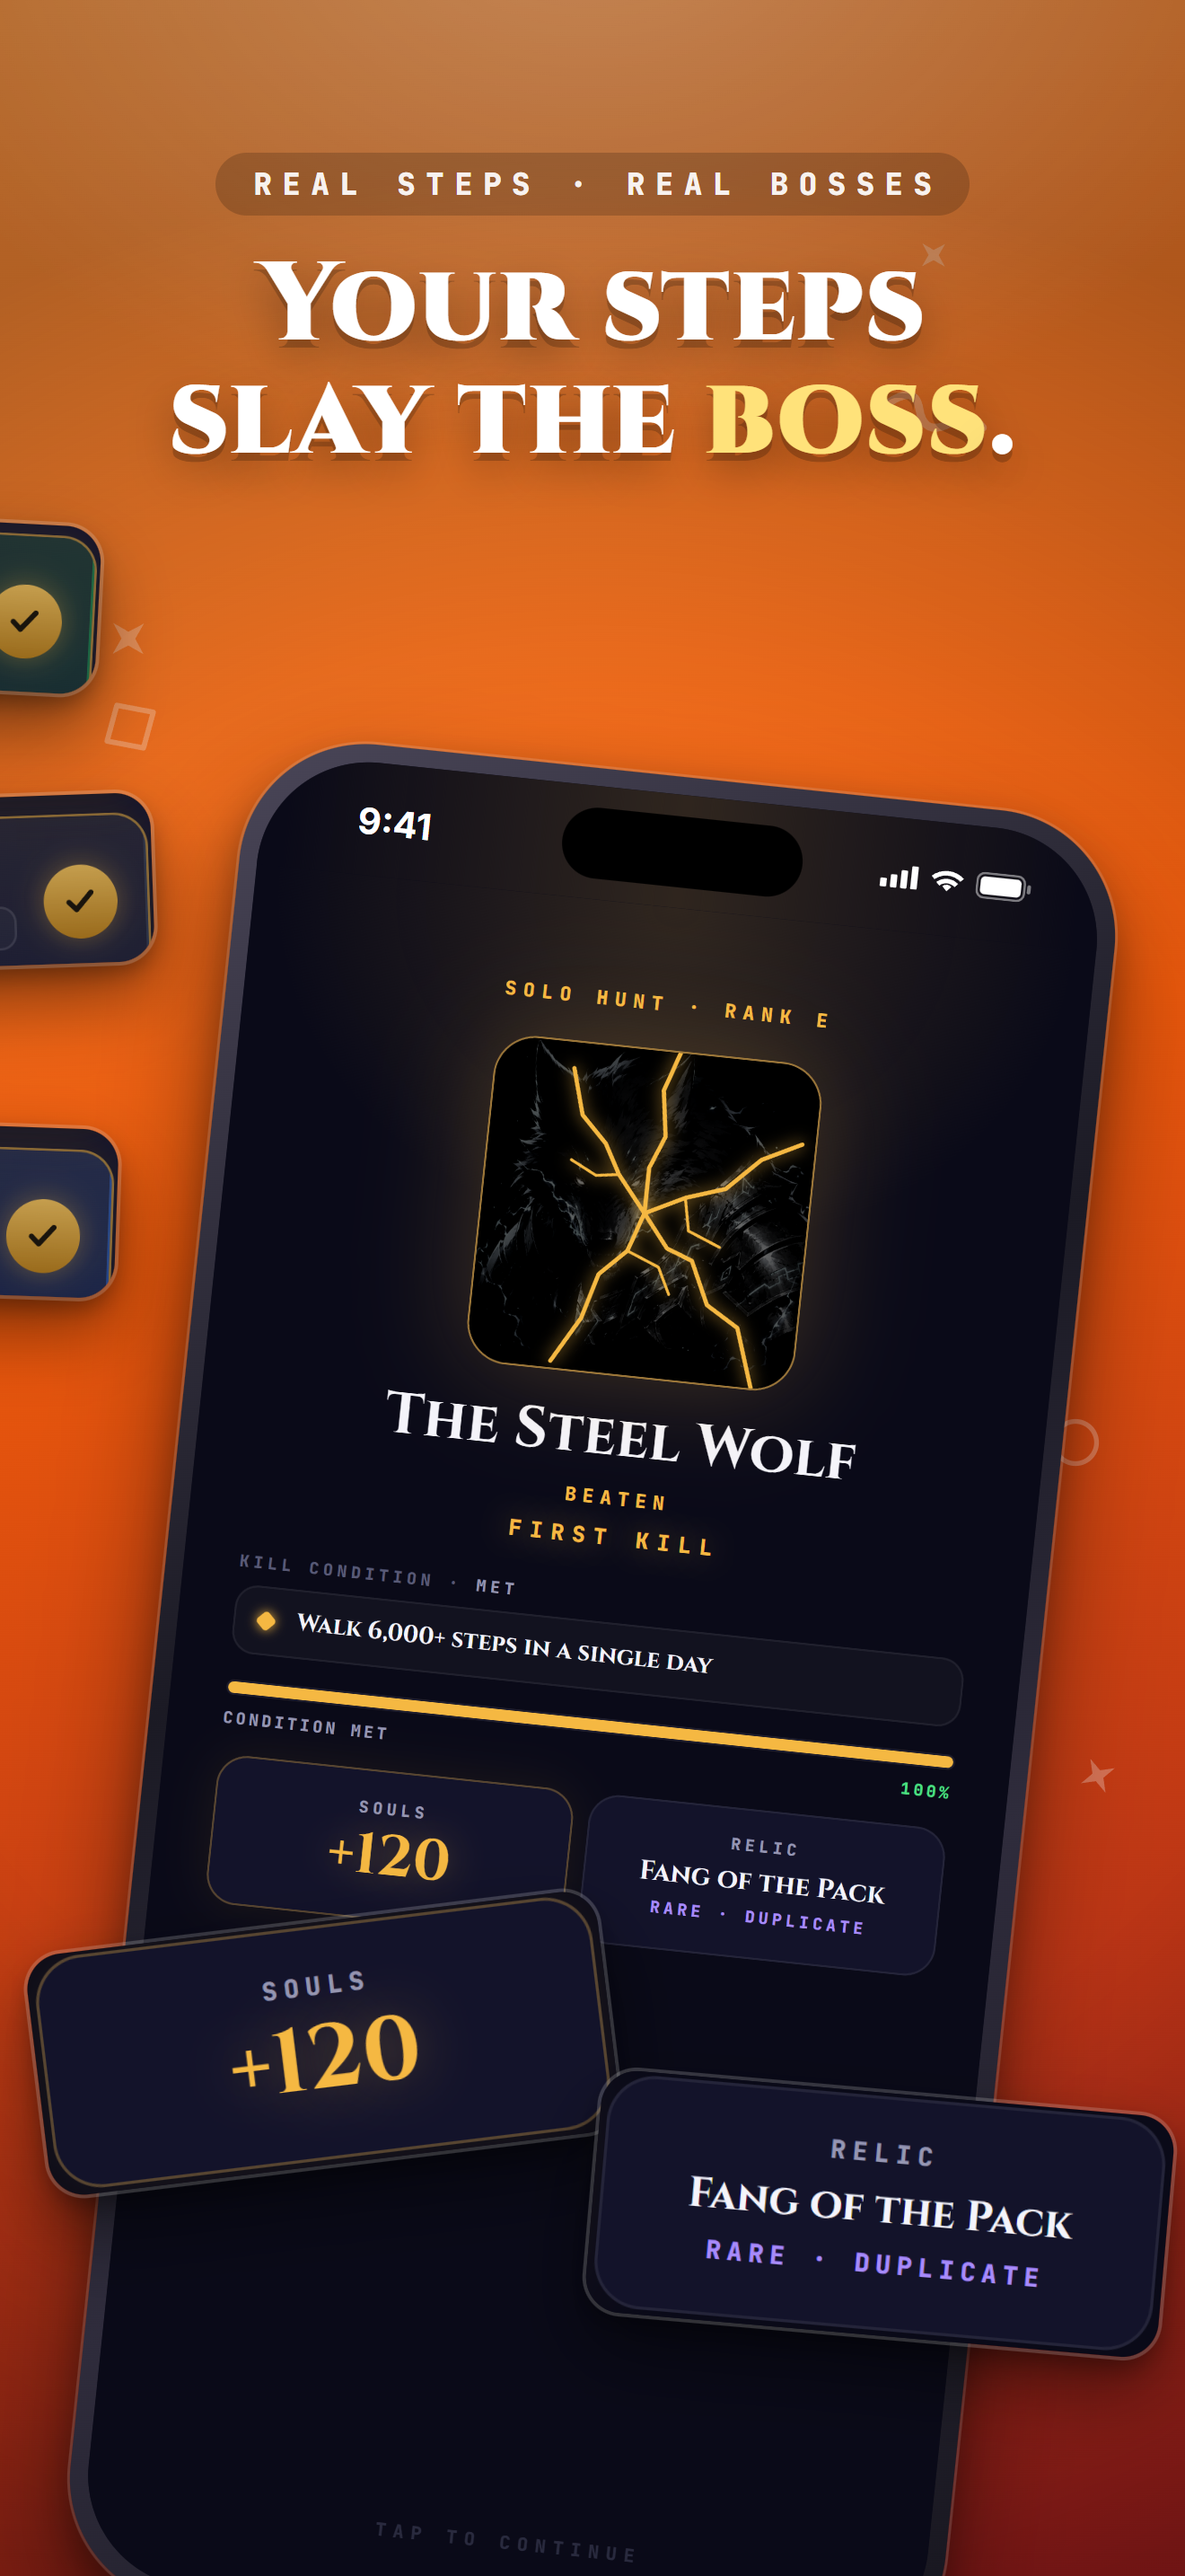
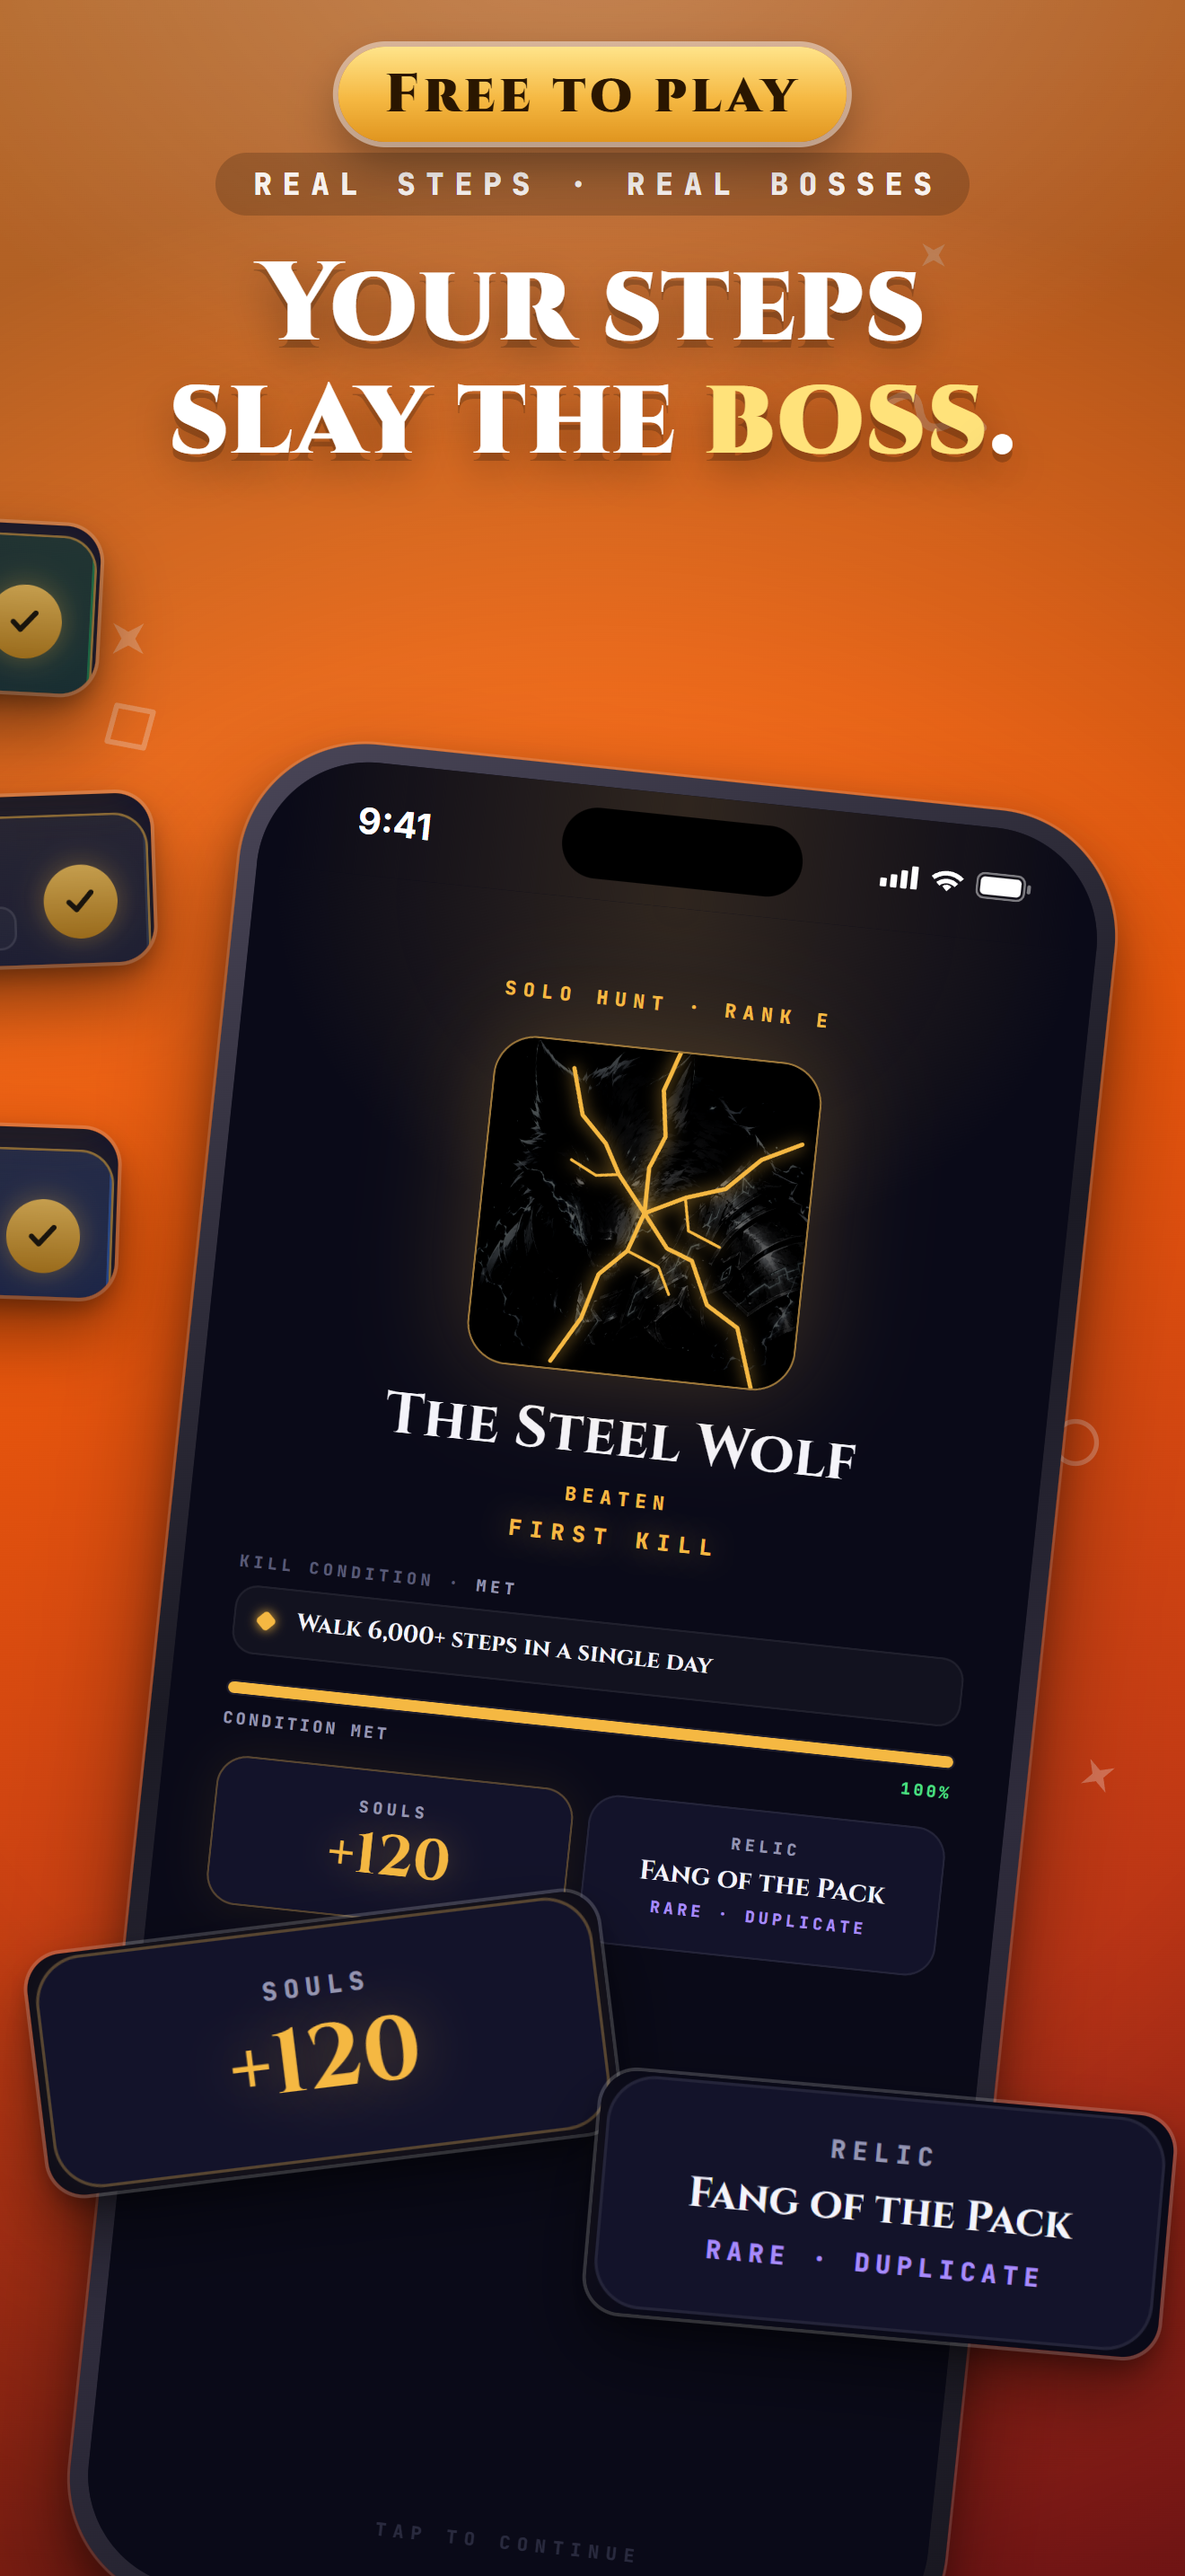
App Store screenshots: FREE TO PLAY on the first three cards
Owner 2026-10-15: "on the first three completely free to advertise that
this is a free app"; he chose FREE TO PLAY (true with Premium and skins
on sale; Apple 2.3.7 frowns on prices in screenshots). Same real
captures, re-rendered at 1320x2868 and 1284x2778. Marketing only.

Changed region(s): [[0.2795, 0.0, 0.7144, 0.0621]]

diff --git a/marketing/aso-3.0.7/panorama.html b/marketing/aso-3.0.7/panorama.html
@@ -50,6 +50,12 @@
   .chip { position: absolute; z-index: 6; font: 900 64px/1 'Cinzel', serif; color: #fff; padding: 28px 46px; border-radius: 999px;
     background: linear-gradient(180deg, #ffcf5a, #f29a1a); text-shadow: 0 3px 0 rgba(0,0,0,.2);
     box-shadow: 0 0 0 6px rgba(255,255,255,.35), 0 30px 60px rgba(0,0,0,.35); }
+  /* 2026-10-15 owner: "on the first three, completely free to advertise that this is a free app";
+     he chose FREE TO PLAY (true with Premium and skins on sale; Apple 2.3.7 frowns on prices). */
+  .free { position: absolute; top: 52px; z-index: 7; transform: translateX(-50%);
+    font: 900 60px/1 'Cinzel', serif; letter-spacing: .08em; color: #2a1600; white-space: nowrap;
+    padding: 24px 52px 22px; border-radius: 999px; background: linear-gradient(180deg, #ffe48a, #f5b842 55%, #e0951f);
+    box-shadow: 0 0 0 6px rgba(255,255,255,.45), 0 24px 50px rgba(0,0,0,.35); }
 </style>
 </head>
 <body>
@@ -89,6 +95,9 @@
     strip.appendChild(card);
     strip.appendChild(copy);
   });
+
+  // FREE TO PLAY on the first three cards
+  [0, 1, 2].forEach((i) => strip.appendChild(el('div', 'free', `left:${i * W + W / 2}px`, 'Free to play')));
 
   // ── phones (strip coordinates; may cross a seam) ──
   const ready = [];
